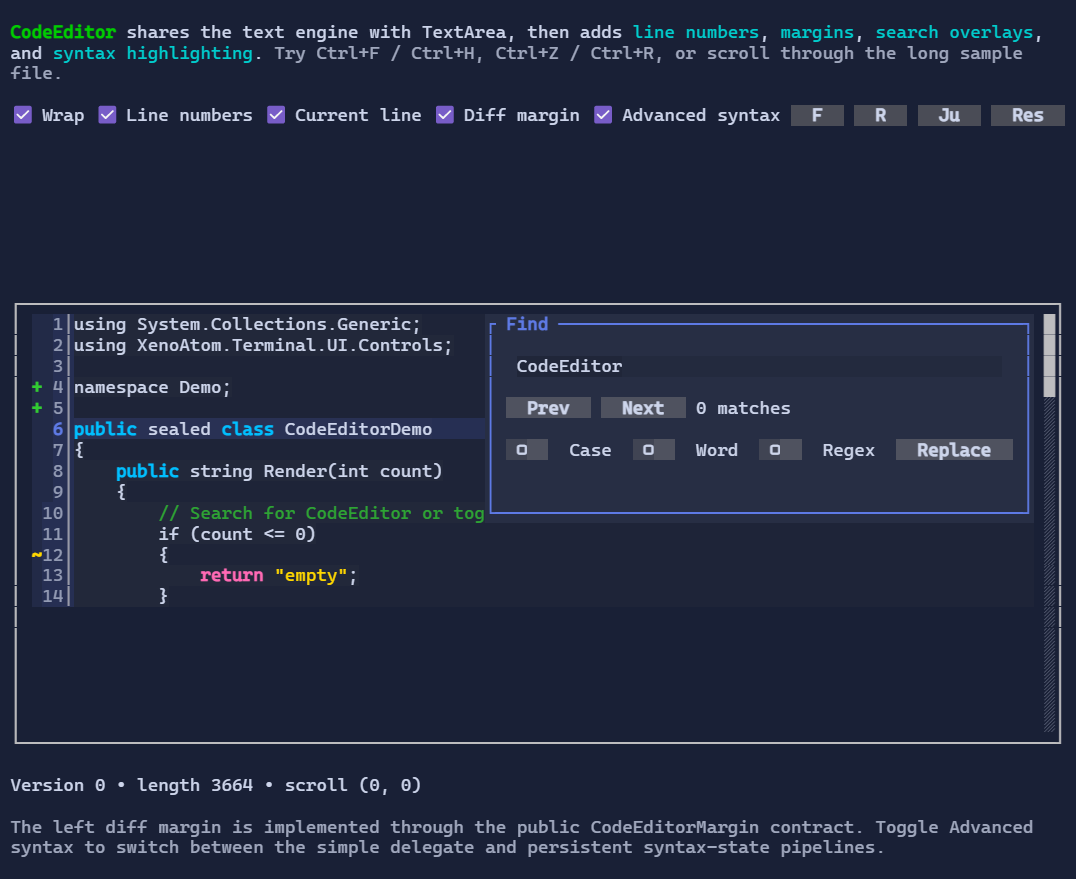
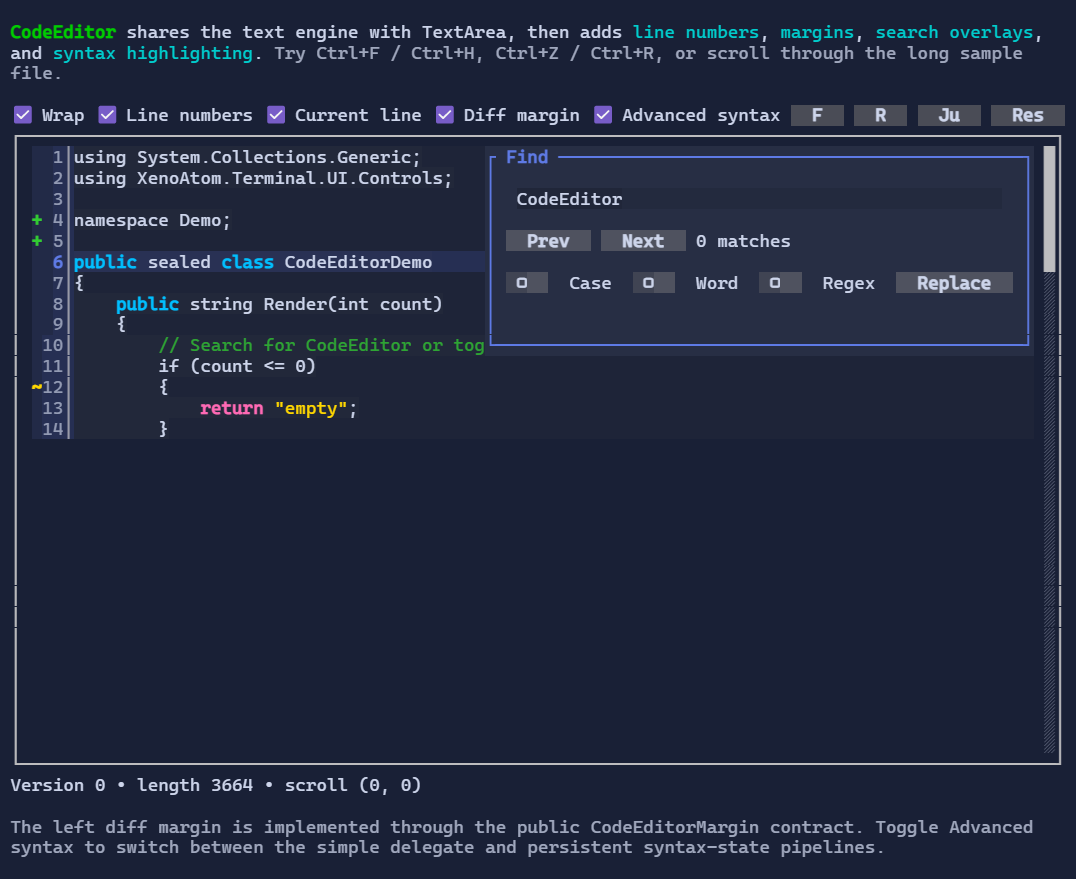
Improve CodeEditor demo layout

diff --git a/samples/ControlsDemo/Demos/CodeEditorDemo.cs b/samples/ControlsDemo/Demos/CodeEditorDemo.cs
@@ -28,7 +28,6 @@ public sealed class CodeEditorDemo : ControlsDemoBase
         var editor = new CodeEditor(BuildDemoSource())
             .Placeholder("Type C# code here…")
             .MinHeight(14)
-            .MaxHeight(14)
             .ShowLineNumbers(showLineNumbers)
             .HighlightCurrentLine(highlightCurrentLine)
             .WordWrap(wordWrap)
@@ -100,13 +99,20 @@ public sealed class CodeEditorDemo : ControlsDemoBase
             "[bold green]CodeEditor[/] shares the text engine with TextArea, then adds [cyan]line numbers[/], [cyan]margins[/], [cyan]search overlays[/], and [cyan]syntax highlighting[/]. [dim]Try Ctrl+F / Ctrl+H, Ctrl+Z / Ctrl+R, or scroll through the long sample file.[/]")
             .Wrap(true);
 
-        var root = new VStack(
-                help,
-                controls,
-                new Border(editor.Scrollable()).Stretch(),
+        var topPanel = new VStack(help, controls)
+            .Spacing(1)
+            .HorizontalAlignment(Align.Stretch);
+
+        var bottomPanel = new VStack(
                 new TextBlock(() => statusText.Value),
                 DemoUi.Hint("The left diff margin is implemented through the public CodeEditorMargin contract. Toggle Advanced syntax to switch between the simple delegate and persistent syntax-state pipelines."))
             .Spacing(1)
+            .HorizontalAlignment(Align.Stretch);
+
+        var root = new DockLayout()
+            .Top(topPanel)
+            .Content(new Border(editor.Stretch().Scrollable()).Stretch())
+            .Bottom(bottomPanel)
             .HorizontalAlignment(Align.Stretch)
             .VerticalAlignment(Align.Stretch);
 
